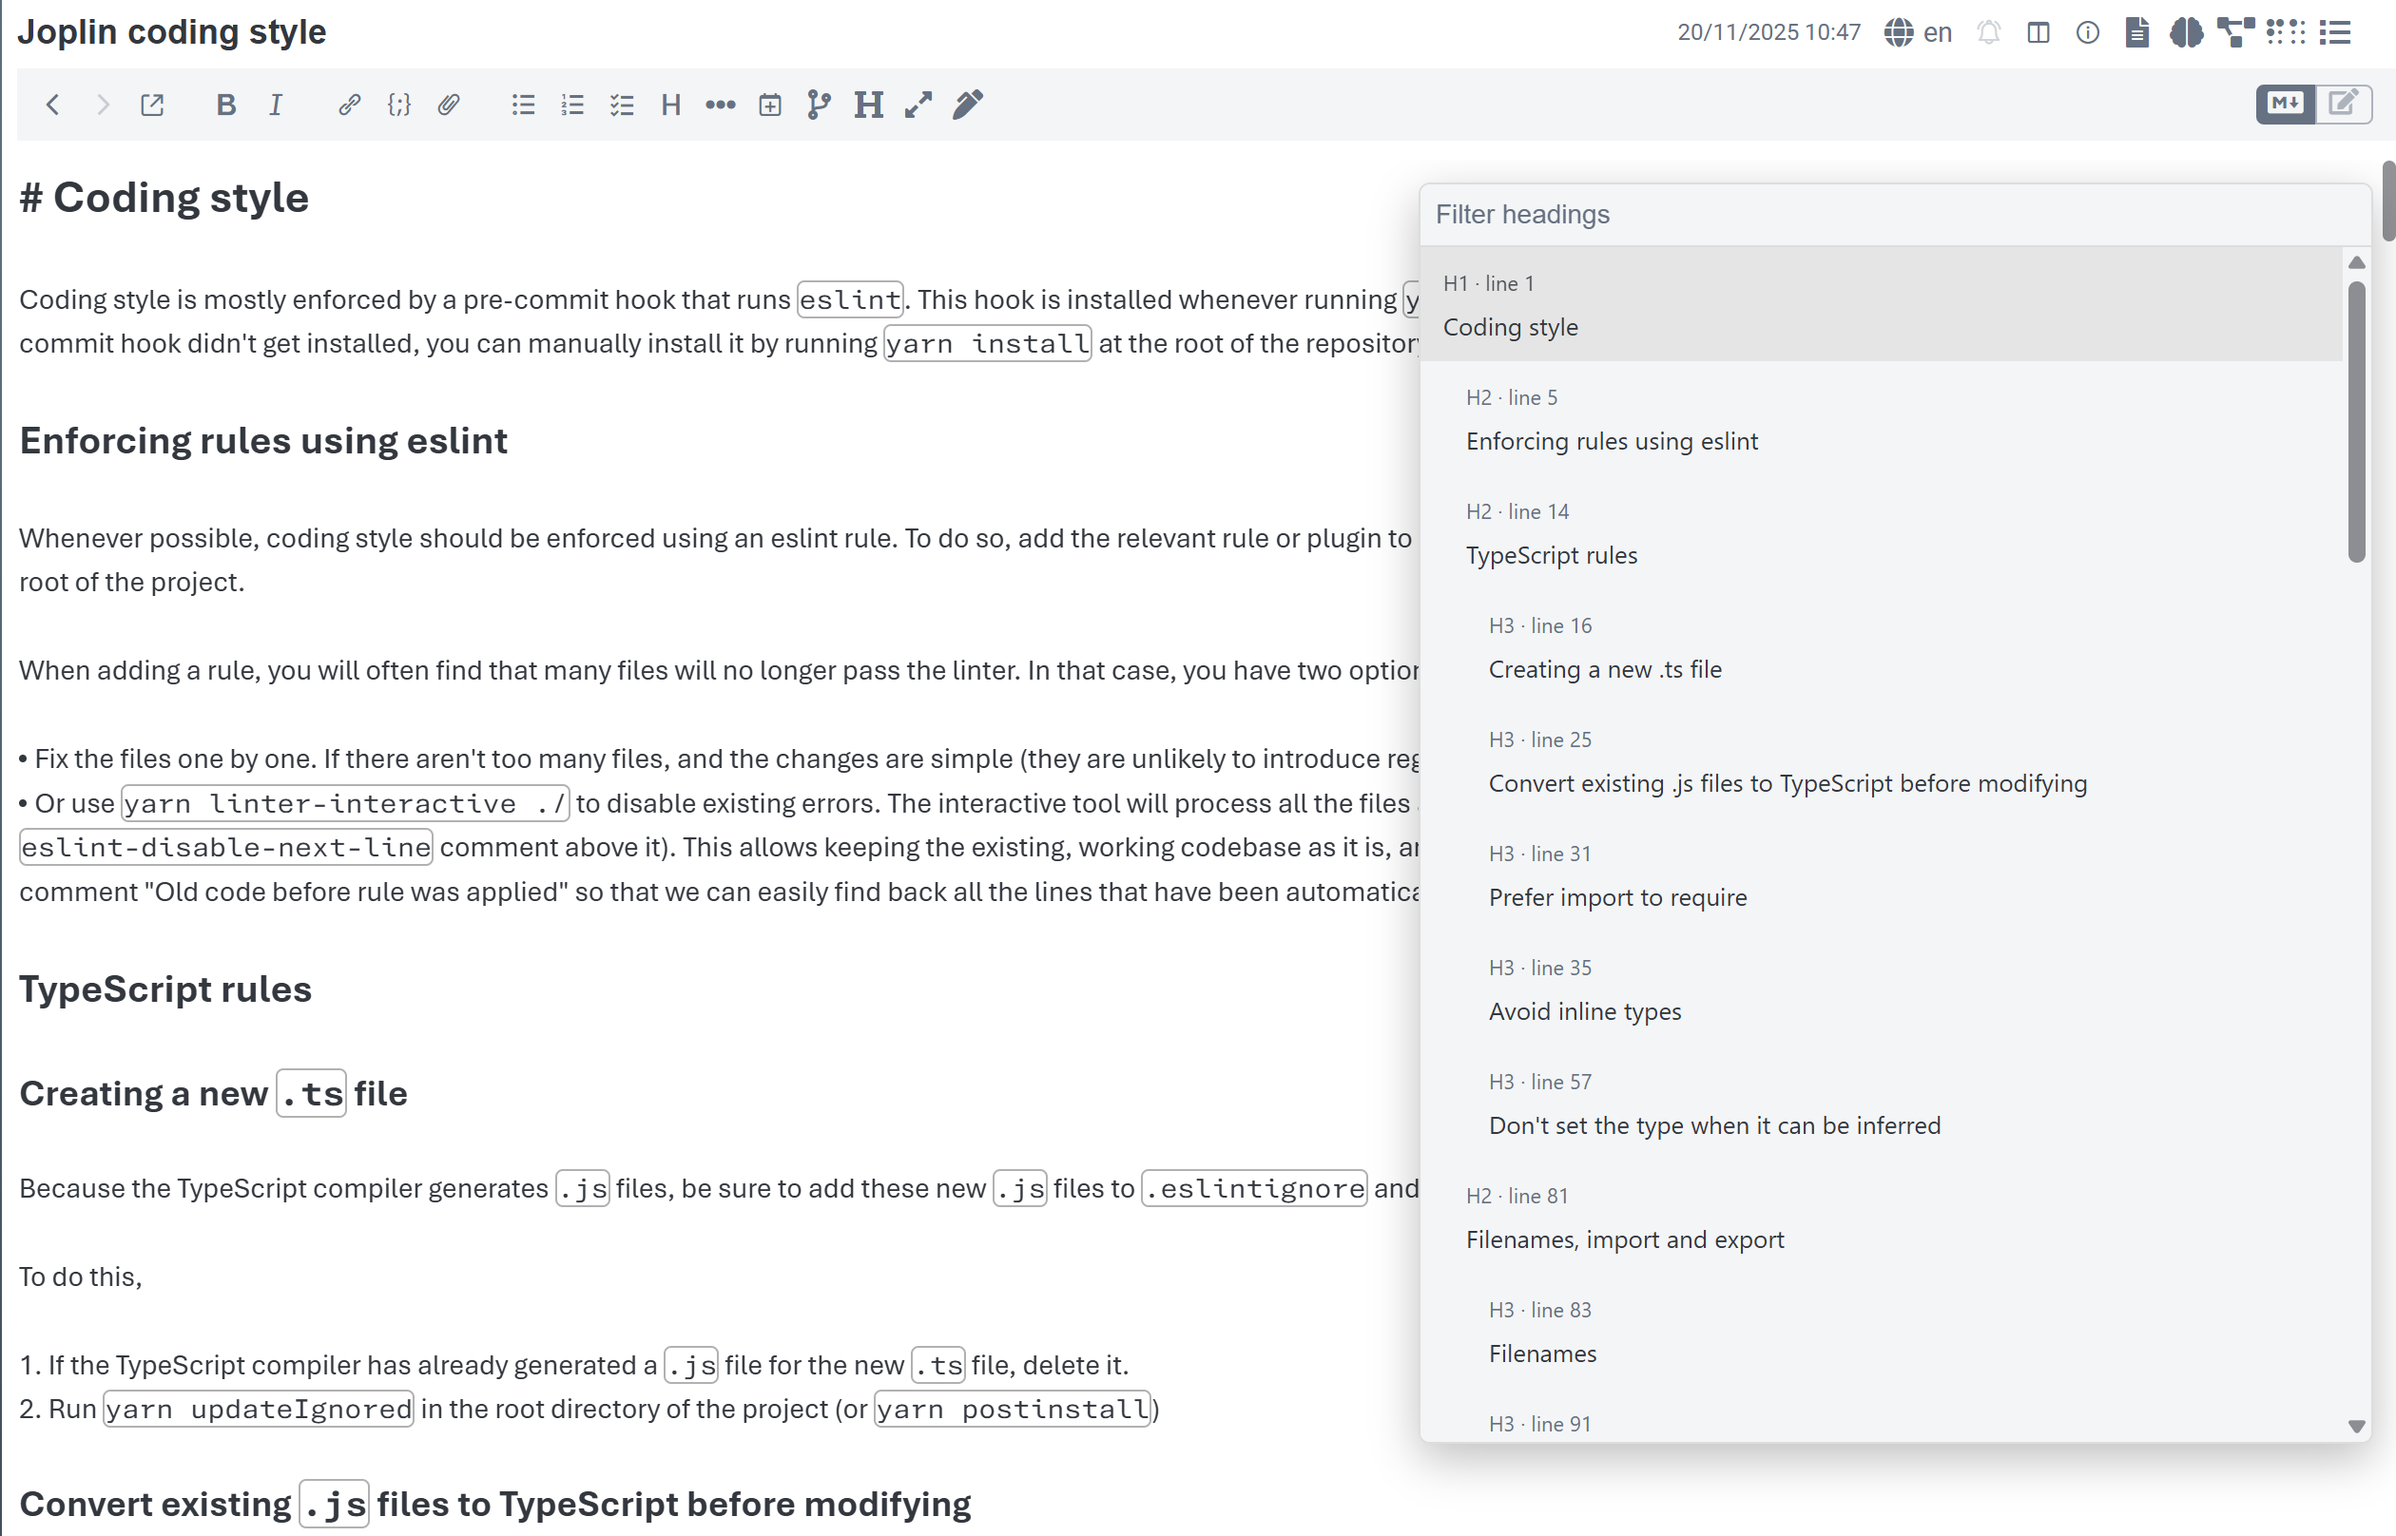
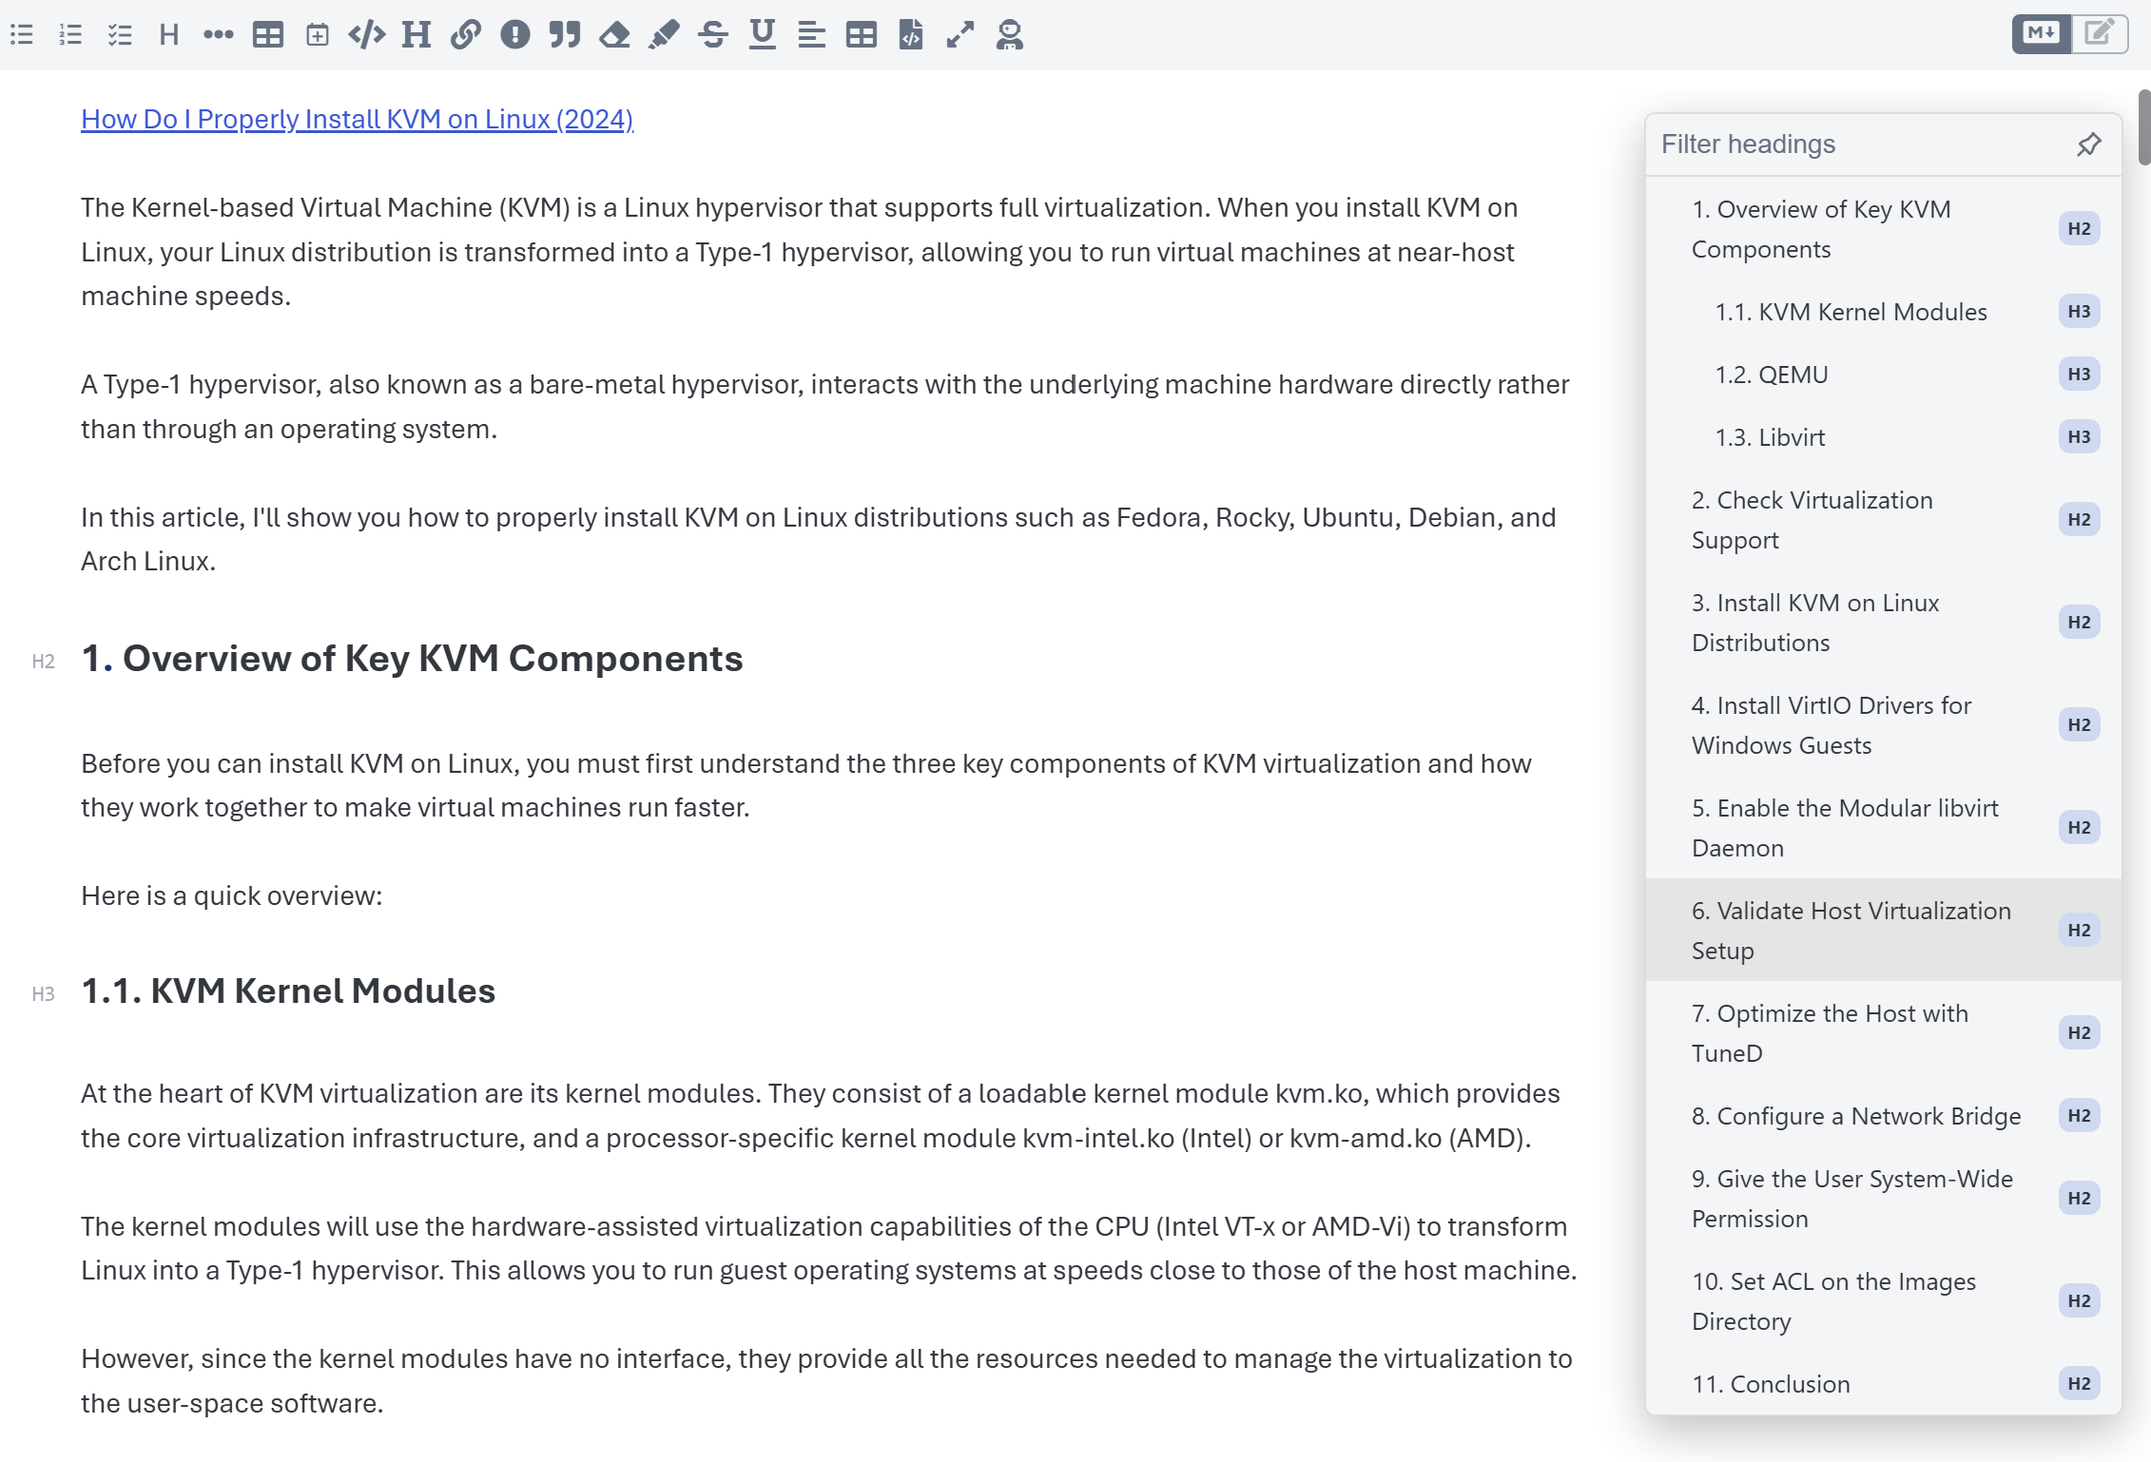
docs: update README

diff --git a/README.md b/README.md
@@ -20,22 +20,25 @@ A Joplin plugin that provides a simple overlay panel allowing you to navigate an
 
 In the markdown editor, click the Heading Navigator toolbar button, or use the assigned keyboard shortcut.
 
-> [!note]
-> There isn't a default keyboard shortcut, you can assign one under Tools | Options | Keyboard Shortcuts | "Go to Heading" command.
+There isn't a default keyboard shortcut, you can assign one under Tools | Options | Keyboard Shortcuts | "Go to Heading" command.
 
 You can navigate through headings using tab key (goes to next heading), shift tab key (goes to previous heading), arrow keys, or by scrolling and selecting a heading.
 
-When selecting a heading with the keyboard, the editor will immediately scroll to the selected heading. Hitting enter in the dialogue (or clicking somewhere else) will close the dialogue. Hitting escape will close the dialogue & return to your original scroll/cursor position.
-
 You can filter the list of headings using the search filter at the top of the panel.
+
+When selecting a heading with the keyboard, the editor will immediately scroll to the selected heading. Hitting enter in the panel (or clicking somewhere else) will close the panel. Hitting escape will close the panel & return to your original scroll/cursor position.
+
+> [!note]
+> When the panel is pinned, clicking outside of the panel will not close the panel, and hitting escape will move focus to the editor without closing the panel or restoring previous scroll position.
 
 ### Features
 
-- Navigate through headings with the keyboard
+- Navigate through headings with the keyboard (desktop only)
 - Search filter to filter list of headings
 - Copy link to heading
 - Panel adapts to your Joplin theme
-- Adjustable panel size
+- Adjustable panel size (desktop only)
+- Ability to pin panel so it stays open until you unpin it (desktop only)
 
 ### Settings
 
@@ -46,7 +49,7 @@ The plugin can be customized via Tools | Options | Heading Navigator:
 - **Panel max height**: 40-90% of editor viewport (default: 75%)
     - Prevents the panel from obscuring too much content
 - **Compact mode**: Hide `H# - line #` metadata and reduce heading row height (default: off)
-    - Shows more headings at once in the panel
+    - Shows more headings at once in the panel (desktop only)
 - **Copy internal anchor links**: Copy `[Heading](#heading-anchor)` instead of `[Heading @ Note](:/noteId#heading-anchor)` (default: off)
 
 Panel appearance settings take effect the next time the panel is opened. The copy link setting applies to the next copied link.
